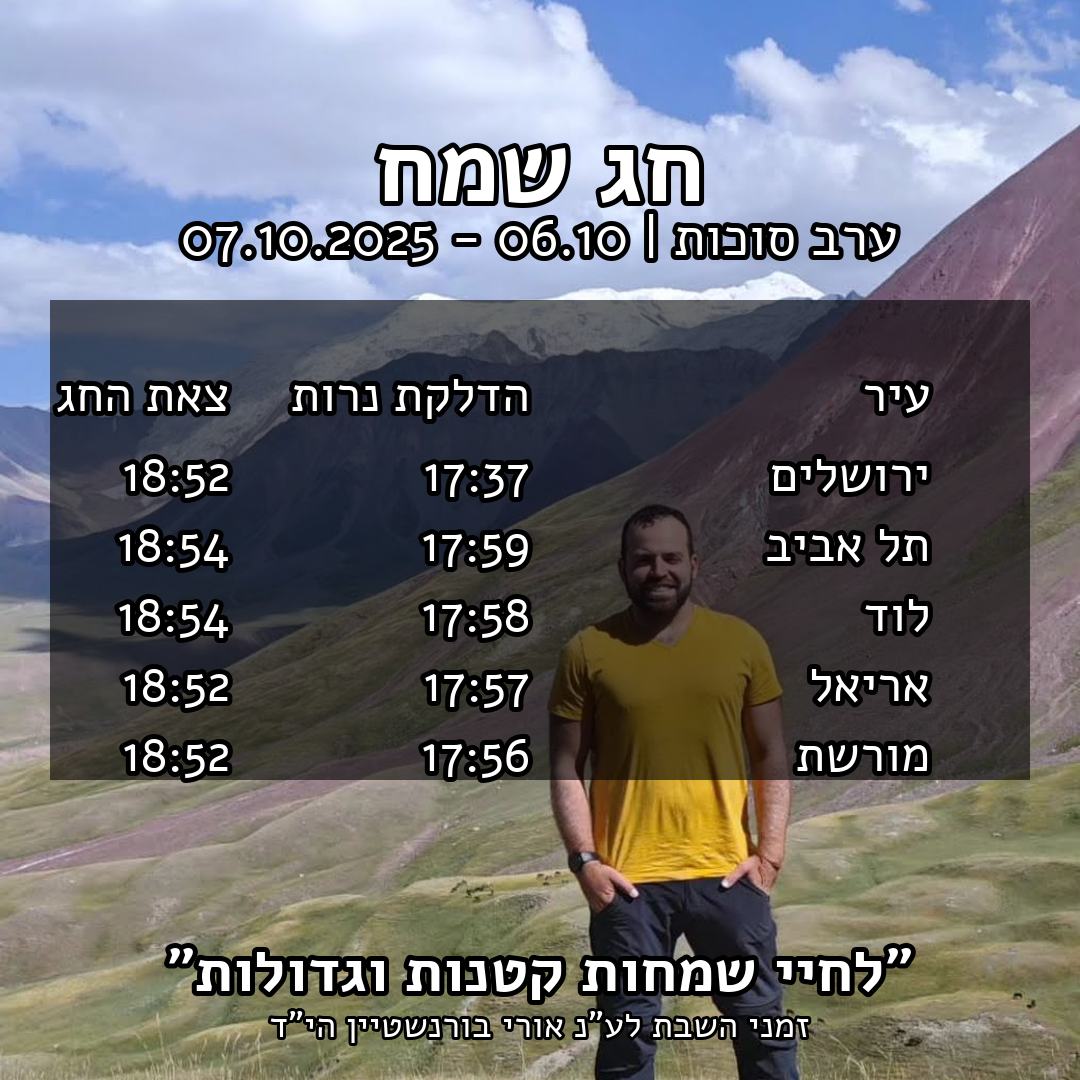
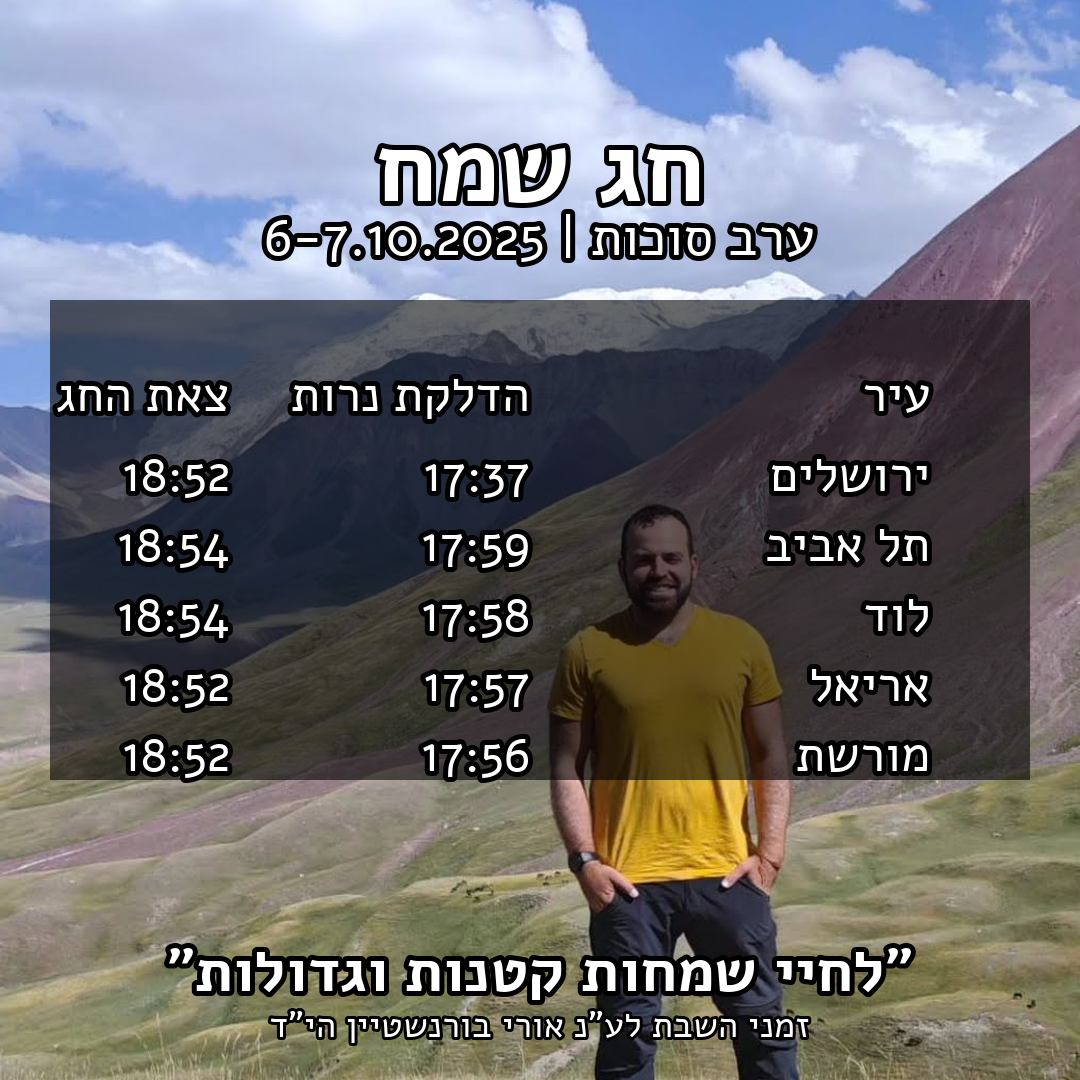
שיפור פורמט התאריכים: 22-24.09.2025 במקום 22.09 - 24.09.2025
שינוי פורמט התאריכים לקומפקטי יותר:

לפני: 22.09 - 24.09.2025 (ארוך ומיותר)
אחרי: 22-24.09.2025 (קומפקטי וברור)

פורמטים שונים:
✅ אותו חודש: 22-24.09.2025
✅ אותו חודש: 26-27.09.2025
✅ חודשים שונים: 30.09-02.10.2025
✅ יום יחיד: 15.10.2025

היתרונות:
- חוסך מקום בתמונה
- יותר קריא ונקי
- עדיין ברור לחלוטין
- תואם לסטנדרטים של תאריכים

עכשיו התמונות נראות מקצועיות יותר עם פורמט תאריכים קומפקטי!

Changed region(s): [[0.1528, 0.1833, 0.8556, 0.2444]]

diff --git a/make_shabbat_posts.py b/make_shabbat_posts.py
@@ -465,7 +465,12 @@ def compose_poster(bg_img: Image.Image, week_info: dict, all_cities_rows: list, 
         if seq_start == seq_end:
             date_str = seq_start.strftime("%d.%m.%Y")
         else:
-            date_str = f"{seq_start.strftime('%d.%m')} - {seq_end.strftime('%d.%m.%Y')}"
+            # Format: 22-24.09.2025 (day range with single month.year)
+            if seq_start.month == seq_end.month and seq_start.year == seq_end.year:
+                date_str = f"{seq_start.day}-{seq_end.day}.{seq_end.month:02d}.{seq_end.year}"
+            else:
+                # Different months: 30.09-02.10.2025
+                date_str = f"{seq_start.strftime('%d.%m')}-{seq_end.strftime('%d.%m.%Y')}"
     else:
         date_str = ""
 
